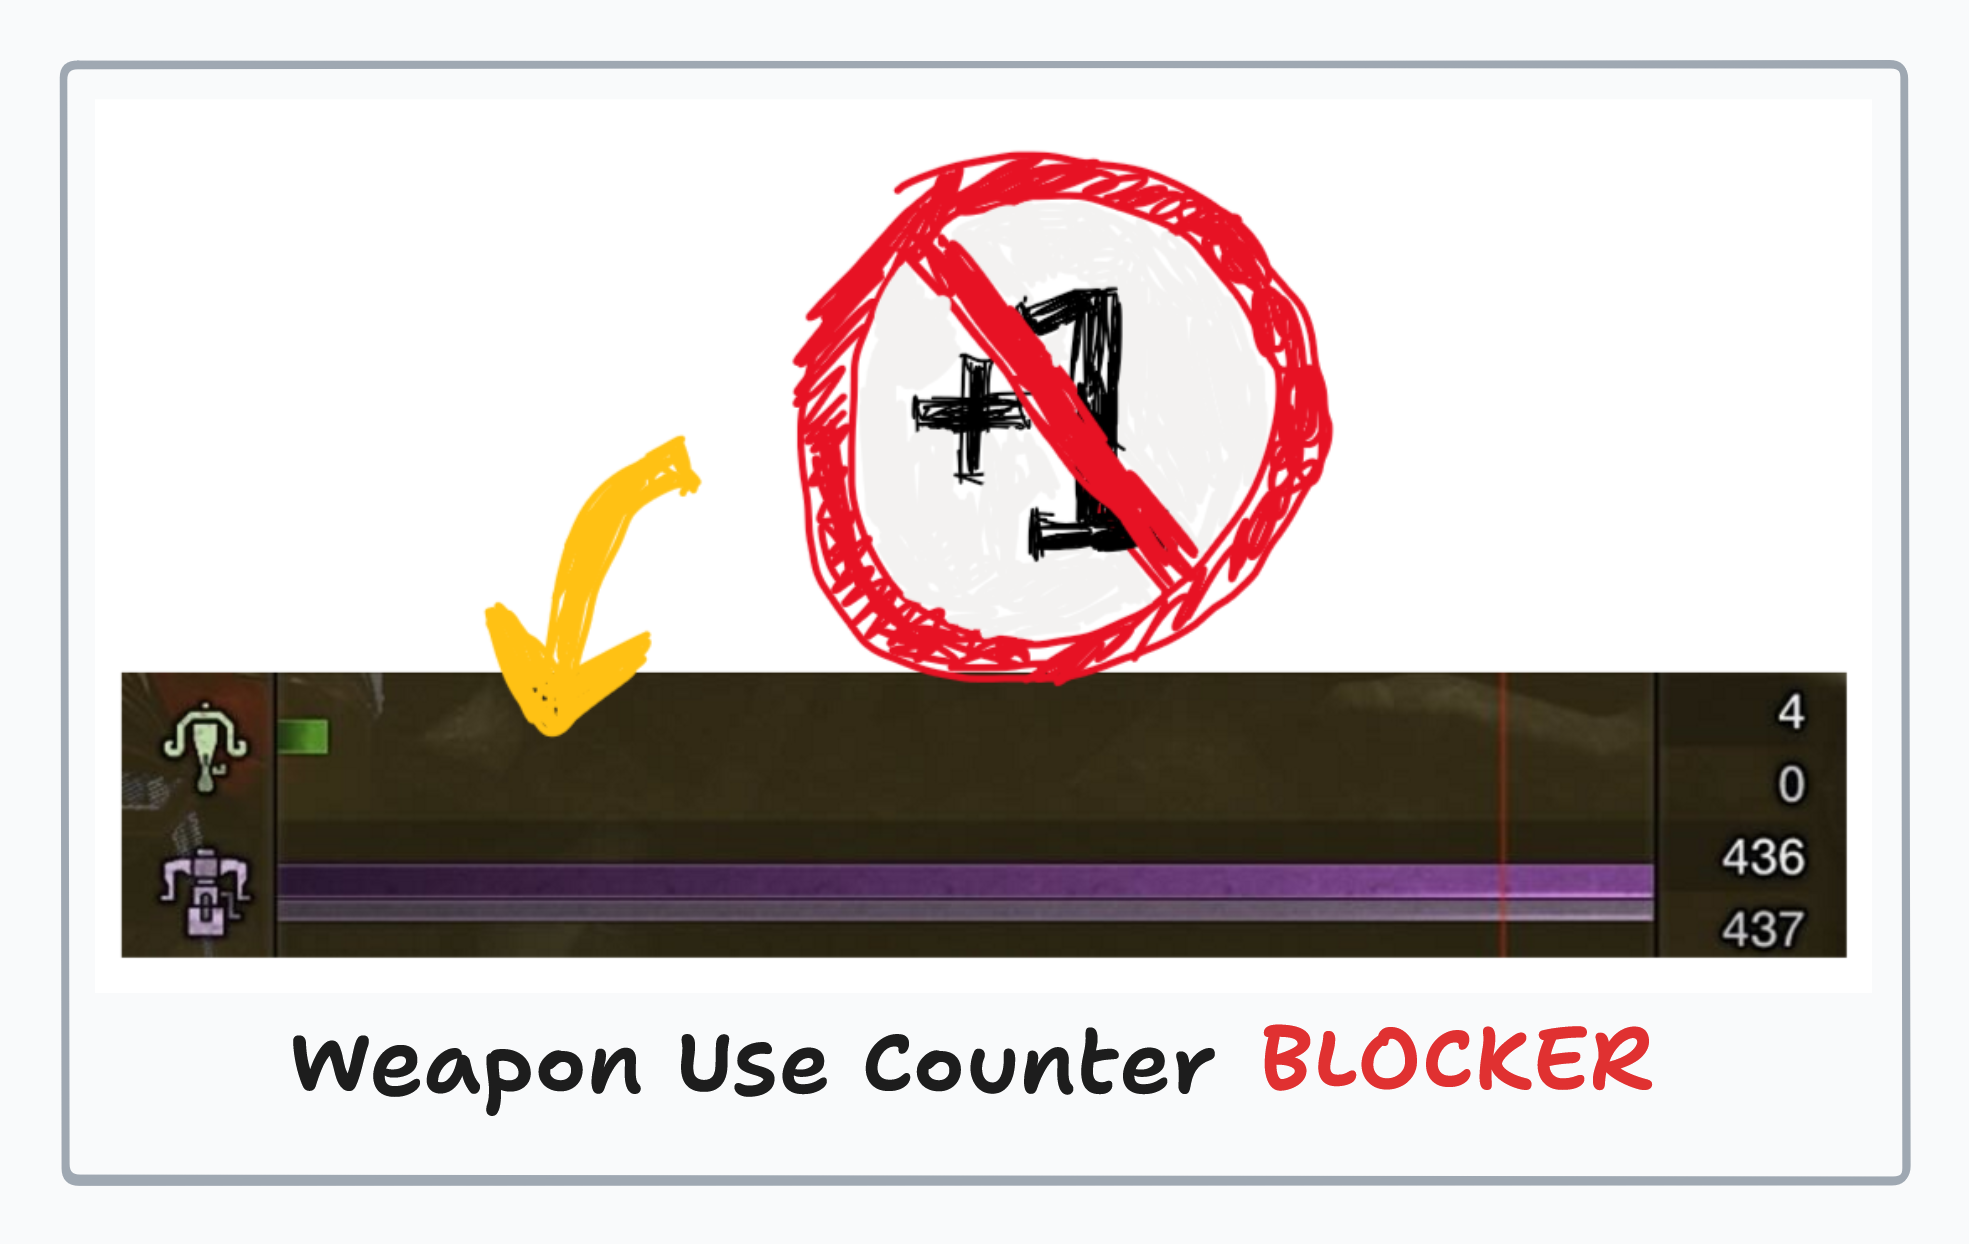
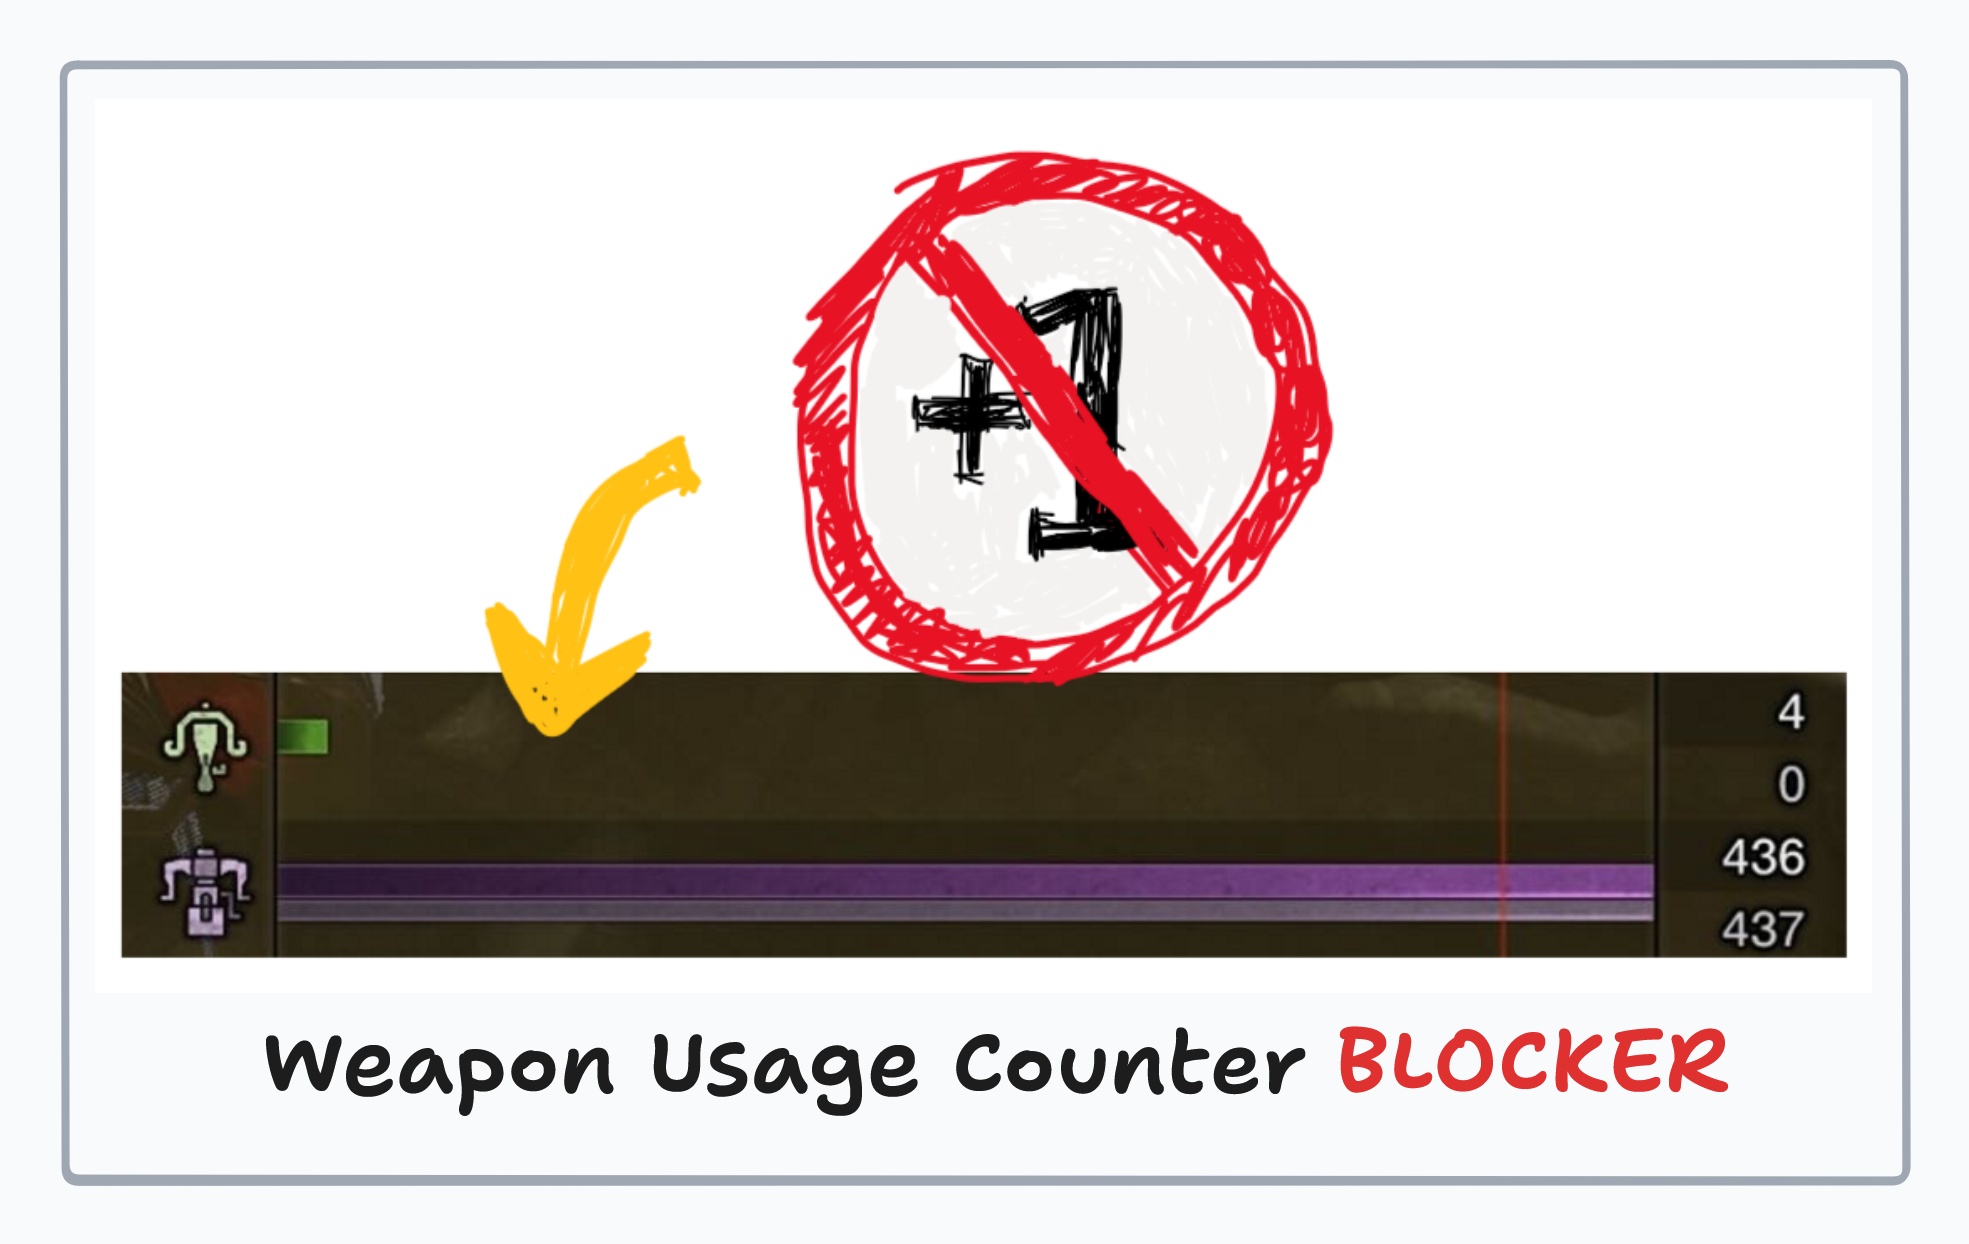
:art: 更正了mod名称

Changed region(s): [[0.1239, 0.8248, 0.8984, 0.9164]]

diff --git a/src/build.py b/src/build.py
@@ -14,8 +14,8 @@ LANG_LIST = [
         'tag': 'ZH-Hans',
         'fonts': 'src/fonts/Noto_Sans_SC/static/NotoSansSC-Medium.ttf',
         'fmm_config': {
-            'name': 'Weapon Use Counter Blocker',
-            'description': 'Weapon Use Counter Blocker',
+            'name': 'Weapon Usage Counter Blocker',
+            'description': 'Weapon Usage Counter Blocker',
             'author': ', '.join(CONTRIBUTORS),
             'screenshot': 'src/assets/screenshot_ZH-Hans.png',
             'category': 'Gameplay',
@@ -26,8 +26,8 @@ LANG_LIST = [
         'tag': 'ZH-Hant',
         'fonts': 'src/fonts/Noto_Sans_TC/static/NotoSansTC-Medium.ttf',
         'fmm_config': {
-            'name': 'Weapon Use Counter Blocker',
-            'description': 'Weapon Use Counter Blocker',
+            'name': 'Weapon Usage Counter Blocker',
+            'description': 'Weapon Usage Counter Blocker',
             'author': ', '.join(CONTRIBUTORS),
             'screenshot': 'src/assets/screenshot_ZH-Hant.png',
             'category': 'Gameplay',
@@ -37,8 +37,8 @@ LANG_LIST = [
     {
         'tag': 'EN-US',
         'fmm_config': {
-            'name': 'Weapon Use Counter Blocker',
-            'description': 'Weapon Use Counter Blocker',
+            'name': 'Weapon Usage Counter Blocker',
+            'description': 'Weapon Usage Counter Blocker',
             'author': ', '.join(CONTRIBUTORS),
             'screenshot': 'src/assets/screenshot_EN-US.png',
             'category': 'Gameplay',
@@ -49,8 +49,8 @@ LANG_LIST = [
         'tag': 'JA-JP',
         'fonts': 'src/fonts/Noto_Sans_JP/static/NotoSansJP-Medium.ttf',
         'fmm_config': {
-            'name': 'Weapon Use Counter Blocker',
-            'description': 'Weapon Use Counter Blocker',
+            'name': 'Weapon Usage Counter Blocker',
+            'description': 'Weapon Usage Counter Blocker',
             'author': ', '.join(CONTRIBUTORS),
             'screenshot': 'src/assets/screenshot_JA-JP.png',
             'category': 'Gameplay',
@@ -61,8 +61,8 @@ LANG_LIST = [
         'tag': 'KO-KR',
         'fonts': 'src/fonts/Noto_Sans_KR/static/NotoSansKR-Medium.ttf',
         'fmm_config': {
-            'name': 'Weapon Use Counter Blocker',
-            'description': 'Weapon Use Counter Blocker',
+            'name': 'Weapon Usage Counter Blocker',
+            'description': 'Weapon Usage Counter Blocker',
             'author': ', '.join(CONTRIBUTORS),
             'screenshot': 'src/assets/screenshot_KO-KR.png',
             'category': 'Gameplay',
@@ -72,21 +72,21 @@ LANG_LIST = [
 ]
 
 # source file settings
-ORIGIN_LUA_FIEL = 'src/WpUseCounterBlocker.lua'
+ORIGIN_LUA_FIEL = 'src/WpUsageCounterBlocker.lua'
 I18N_FILE_DIR = 'src/i18n'
 # action settings
 WORK_TEMP_DIR = '.temp'
 # save settings
 MOD_ROOT_DIR = 'reframework'
-MOD_NAME = 'WeaponUseCounterBlocker'
+MOD_NAME = 'WeaponUsageCounterBlocker'
 LUA_SAVE_DIR = '{}/{}/{}'.format(WORK_TEMP_DIR, MOD_ROOT_DIR, 'autorun')
 JSON_SAVE_DIR = '{}/{}/{}/{}'.format(WORK_TEMP_DIR, MOD_ROOT_DIR, 'data', MOD_NAME)
-JSON_FILE_NAME_PREFIX = 'WeaponUseCounterBlocker_'
+JSON_FILE_NAME_PREFIX = 'WeaponUsageCounterBlocker_'
 USER_CONFIG_JSON_FILE_NAME = 'UserConfig.json'
 FONTS_SAVE_DIR = '{}/{}/{}'.format(WORK_TEMP_DIR, MOD_ROOT_DIR, 'fonts')
-FONTS_FILE_NAME = 'WeaponUseCounterBlocker_Fonts_NotoSans'
+FONTS_FILE_NAME = 'WeaponUsageCounterBlocker_Fonts_NotoSans'
 VERSION_JSON_SAVE_PATH = 'version.json'
-ZIP_FILE_PREFIX = 'WeaponUseCounterBlocker_'
+ZIP_FILE_PREFIX = 'WeaponUsageCounterBlocker_'
 # fmm settings
 COVER_FILE_NAME = 'cover.png'
 INI_FILE_NAME = 'modinfo.ini'

diff --git a/README.md b/README.md
@@ -1,6 +1,6 @@
 <div align="center">
 
-# MHWS Weapon Use Counter Blocker
+# MHWS Weapon Usage Counter Blocker
 
 </div>
 
@@ -16,13 +16,14 @@
 > [!CAUTION]
 > Please backup your save before using! / 警告：使用前请备份存档！
 
-A mod of `Monster Hunter Wilds` for block weapon use counter. / 用于`怪物猎人：荒野`的武器使用次数记录屏蔽器。
+A mod of `Monster Hunter Wilds` for block weapon usage counter. / 用于`怪物猎人：荒野`的武器使用次数记录屏蔽器。
 
 ---
 
 ## Description:
 
-When the 1st or 2nd weapon is in the selected weapon list, the task count of this task and the 1st/2nd-weapon count will be blocked.
+When the 1st or 2nd weapon is in the selected weapon list, the usage count of this task and the 1st/2nd-weapon count
+will be blocked.
 
 ## Requirements:
 - [REFramework](https://www.nexusmods.com/monsterhunterwilds/mods/93)
